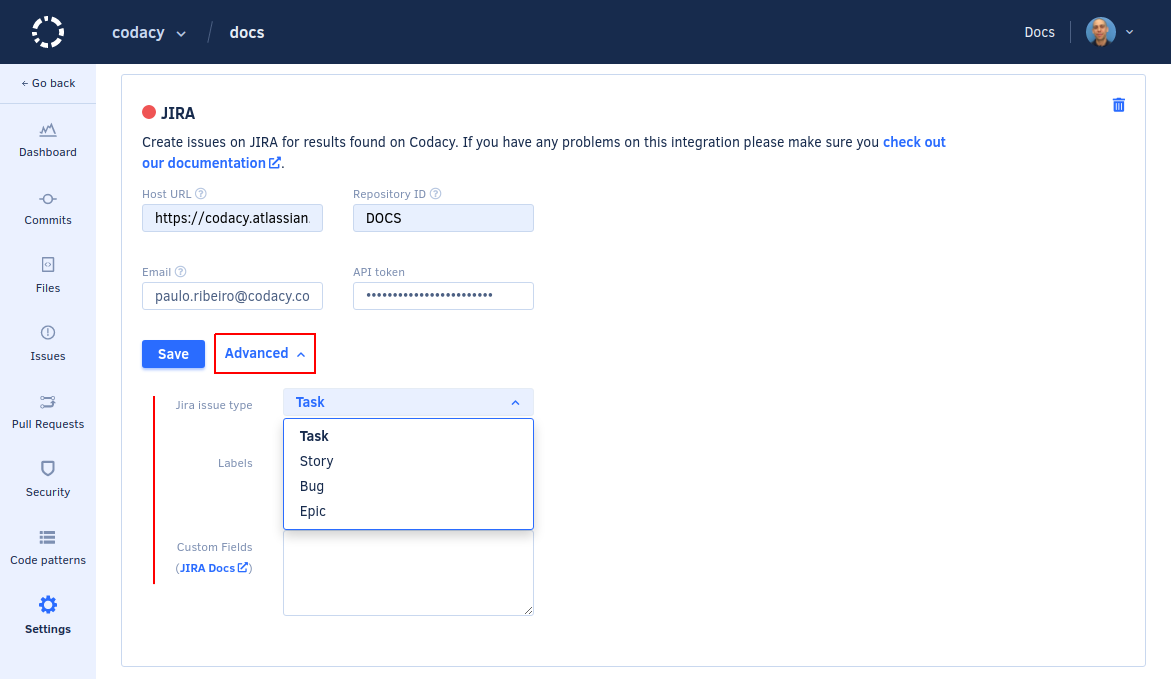
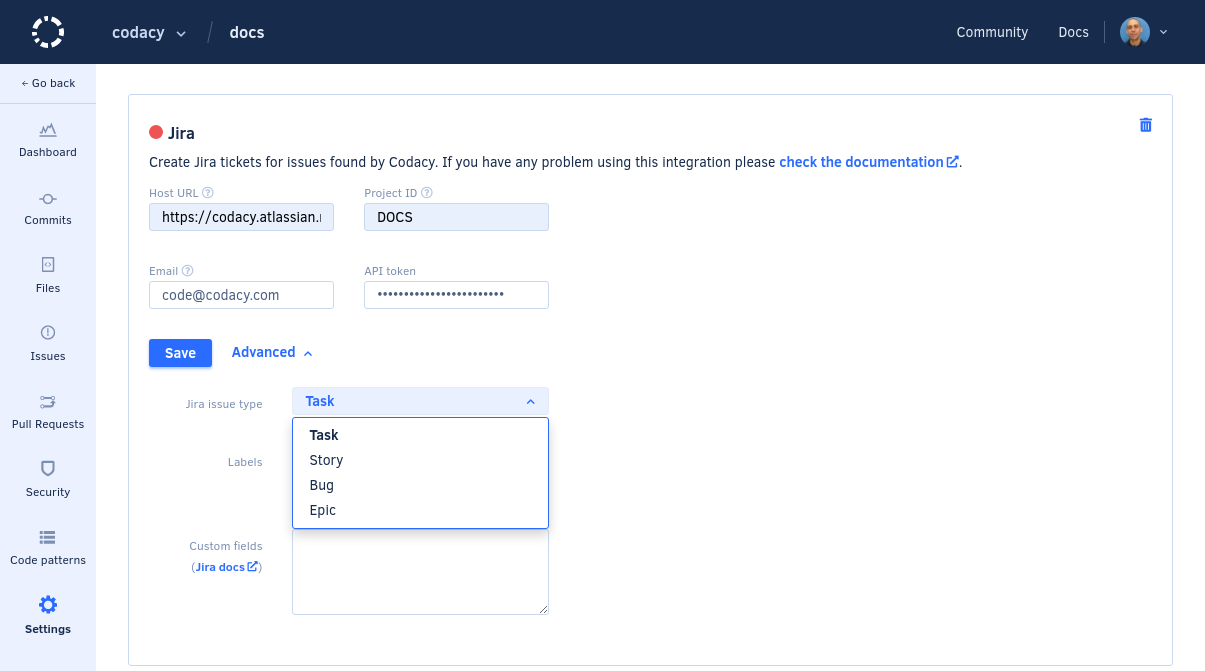
clean: Update UI copy for Jira integration DOCS-306 (#888)
* clean: Update screenshots for Jira integration

* clean: Change Repository ID to Project ID

* clean: Update screenshot for issue actions menu

diff --git a/docs/repositories-configure/integrations/jira-integration.md b/docs/repositories-configure/integrations/jira-integration.md
@@ -19,12 +19,12 @@ To enable the Jira integration:
     ![Enabling the Jira integration](images/jira-integration-enable.png)
 
     -   **Host URL:** Base URL of your Jira instance, including the protocol. For example, `https://mycompany.atlassian.net/`.
-    -   **Repository ID:** Key of the Jira project where Codacy will create issues. You can obtain the project key from the prefix of Jira issue numbers in that project. For example, `DOCS` for a project with the issue DOCS-42.
+    -   **Project ID:** Key of the Jira project where Codacy will create issues. You can obtain the project key from the prefix of Jira issue numbers in that project. For example, `DOCS` for a project with the issue DOCS-42.
     -   **Email:** Email address of the user account that Codacy will use to create new issues in Jira.
     -   **API token:** [Jira API token](https://confluence.atlassian.com/cloud/api-tokens-938839638.html#APItokens-CreateanAPItoken){: target="_blank"} for the user account that Codacy will use to create new issues in Jira. The Jira integration only supports HTTP basic authentication.
 
     !!! important
-        It's recommended that you use a dedicated Jira account for the integration. Jira issues created by Codacy will appear as being reported by this user account.
+        We recommend that you use a dedicated service account for integrating Codacy with Jira. Jira issues created by Codacy will appear as being reported by this user account.
 
 1.  Click **Save** and make sure that Codacy can successfully establish a connection with Jira.
 
